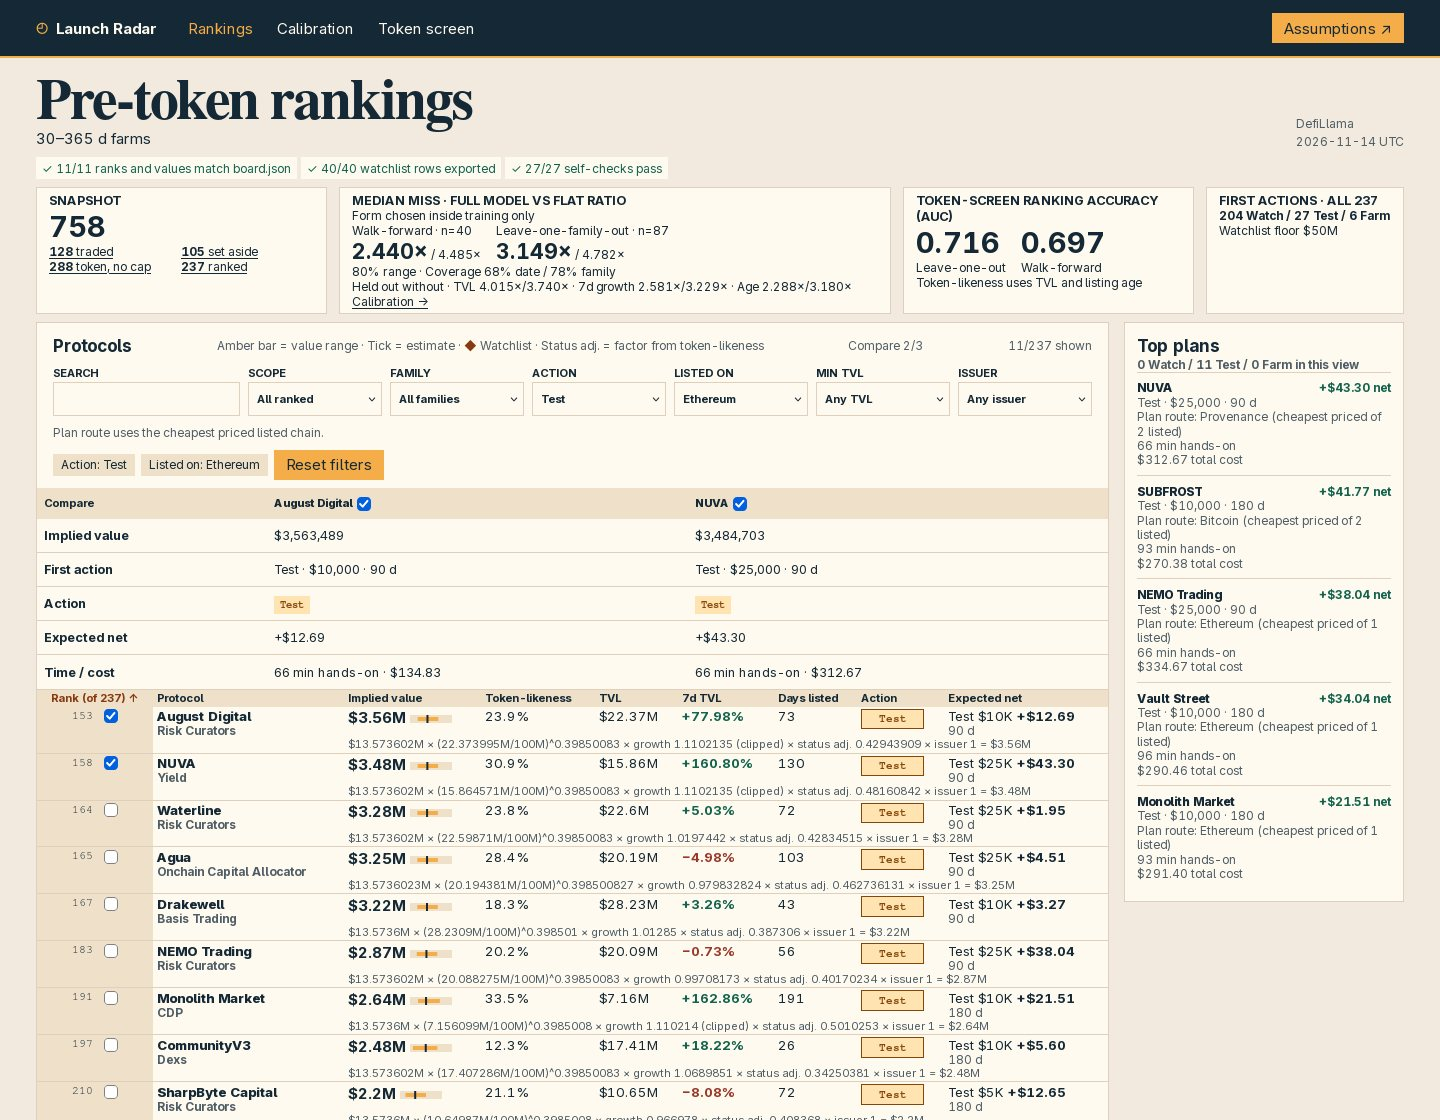
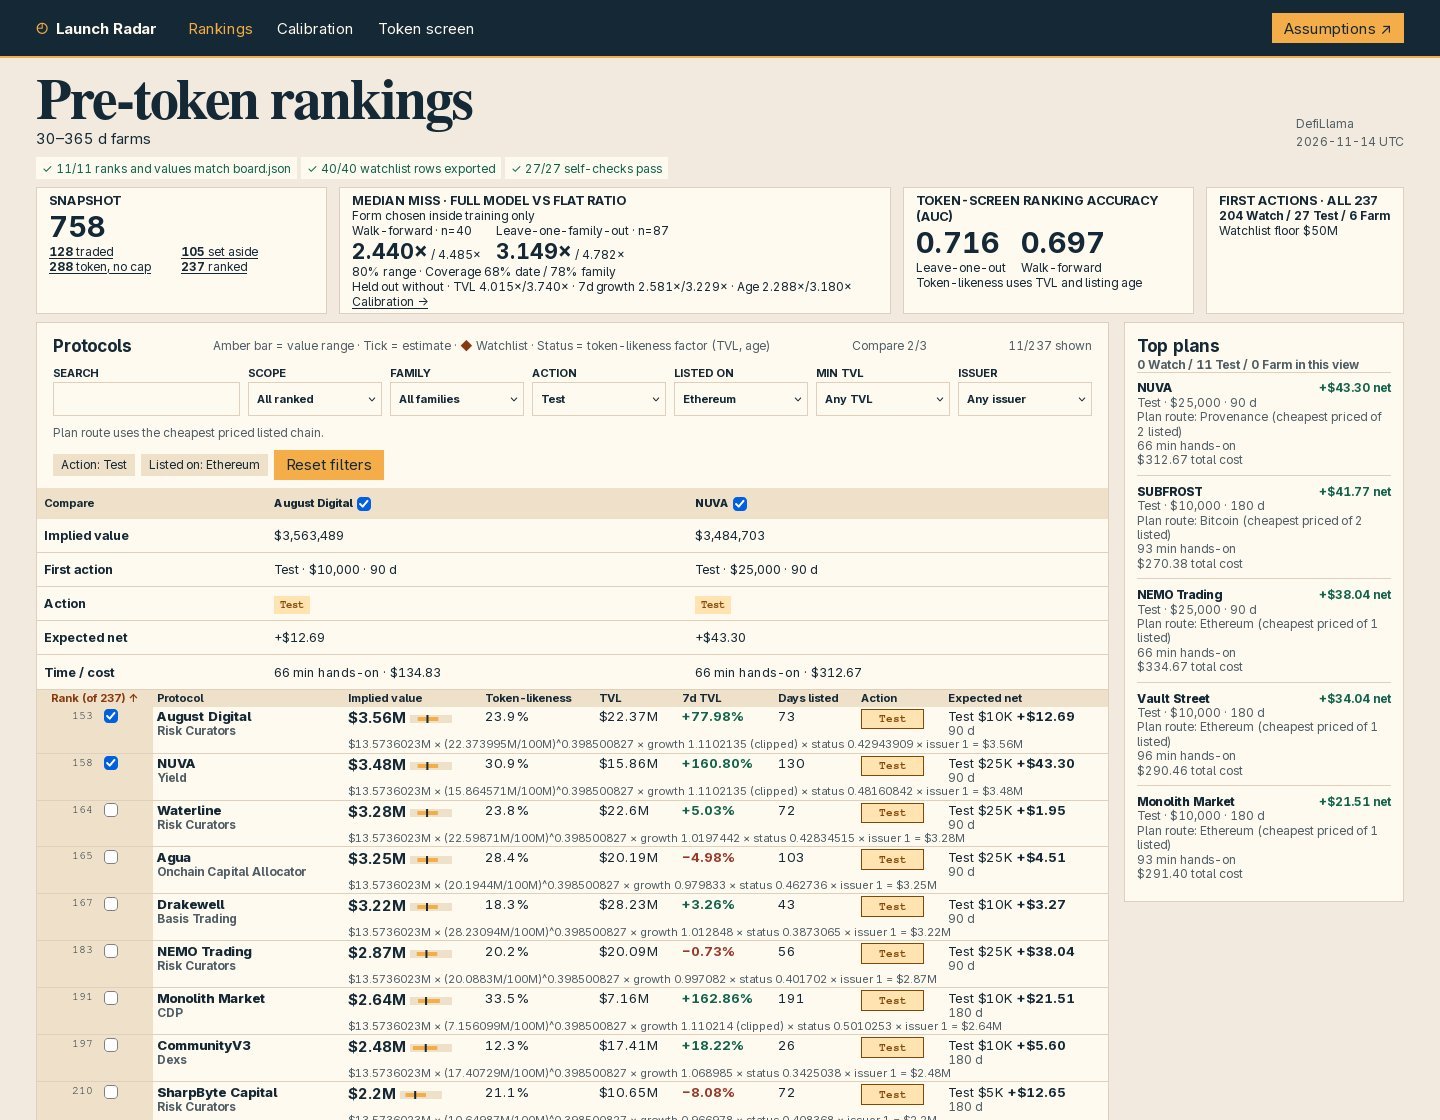
Print the shared value-fit coefficients at one fixed precision on every row; label the token-likeness factor 'status (TVL, age)'

diff --git a/dashboard/app.js b/dashboard/app.js
@@ -112,7 +112,7 @@ const boardView=st=>`${intro("Pre-token rankings","30–365 d farms")}
 <div class=integrity role=group aria-label=Checks></div>
 ${kpis(st)}
 <div class=board><section class=panel>
-<div class=bar><h2>Protocols</h2><small class=grid-key>Amber bar = value range · Tick = estimate · <b class=watch>◆</b> Watchlist · Status adj. = factor from token-likeness</small>${status("compare-count")}${status("shown")}</div>
+<div class=bar><h2>Protocols</h2><small class=grid-key>Amber bar = value range · Tick = estimate · <b class=watch>◆</b> Watchlist · Status = token-likeness factor (TVL, age)</small>${status("compare-count")}${status("shown")}</div>
 <div class=filters>${searchBox(st)}
 ${html(filters,spec=>filter(spec,st))}
 <small class=chain-note>Plan route uses the cheapest priced listed chain.</small></div>
@@ -209,7 +209,7 @@ function compare(st){
 		box.disabled=picked.size===3&&!box.checked
 	}
 }
-const sources=(r,st)=>`<div class=sources><p>Value at launch ${short(r.plan.grossCap)} (traded-peer fit${r.haircut===1?"":" × issuer factor"}) · Ranked value ${short(r.score)} = that × status adj. (rounded${r.score===1?", min $1":""})
+const sources=(r,st)=>`<div class=sources><p>Value at launch ${short(r.plan.grossCap)} (traded-peer fit${r.haircut===1?"":" × issuer factor"}) · Ranked value ${short(r.score)} = that × status (rounded${r.score===1?", min $1":""})
 <p>7-day growth ${chg(r.change_7d)}${clipped(r)?` (uses ${chg(r.growth)})`:""}
 <p>${forms[form]} · ${r.ageDays==null?"median age":days(r)+" d listed"}${form==="shrink"?` · 1 − ${weight} × (1 − token-likeness)`:""}
 <p>Issuer factor · ${r.flags.map(esc).join(" · ")||"No flags"}

diff --git a/dashboard/model.js b/dashboard/model.js
@@ -378,13 +378,13 @@ const refM=A.refTvl/1e6,scoreEq=([base,tvl,slope,...terms])=>max(1,round(terms.r
 function equationFor(fit,p){
 	const [intercept,slope]=fit.coefs,terms=[
 		["growth",exp((p.size-p.rawSize)*slope)],
-		fit.age?["age",exp(dot(capInputs(fit,p).slice(2),fit.coefs.slice(2)))]:["status adj.",p.valueAge],
+		fit.age?["age",exp(dot(capInputs(fit,p).slice(2),fit.coefs.slice(2)))]:["status",p.valueAge],
 		["issuer",p.haircut]]
+	const base=+(exp(intercept)/1e6).toPrecision(9),power=+slope.toPrecision(9)
 	let shown
 	for(let digits=4;digits<=17;digits++){
 		const print=n=>+n.toPrecision(digits)
-		shown=[print(exp(intercept)/1e6),print(p.tvl_usd/1e6),print(slope),
-			...terms.map(([label,n])=>[label,print(n)])]
+		shown=[base,print(p.tvl_usd/1e6),power,...terms.map(([label,n])=>[label,print(n)])]
 		if(scoreEq(shown)===p.score) break
 	}
 	return shown
